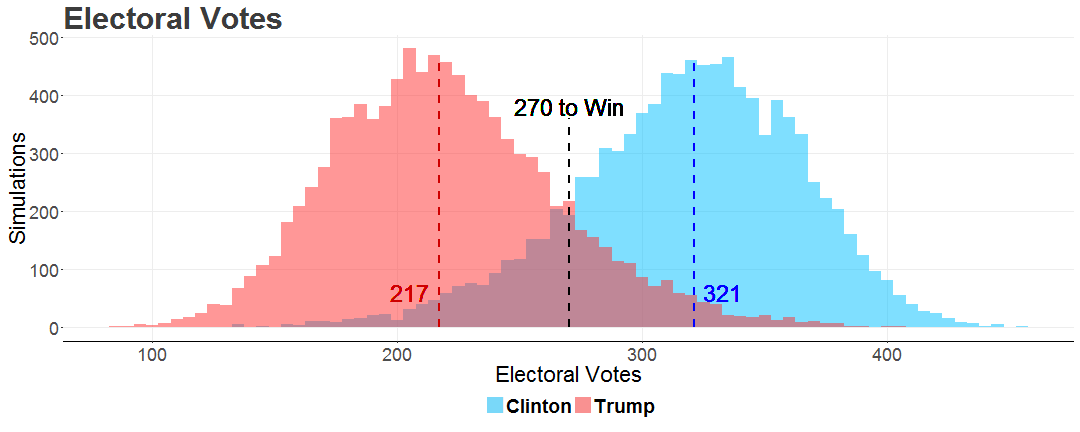
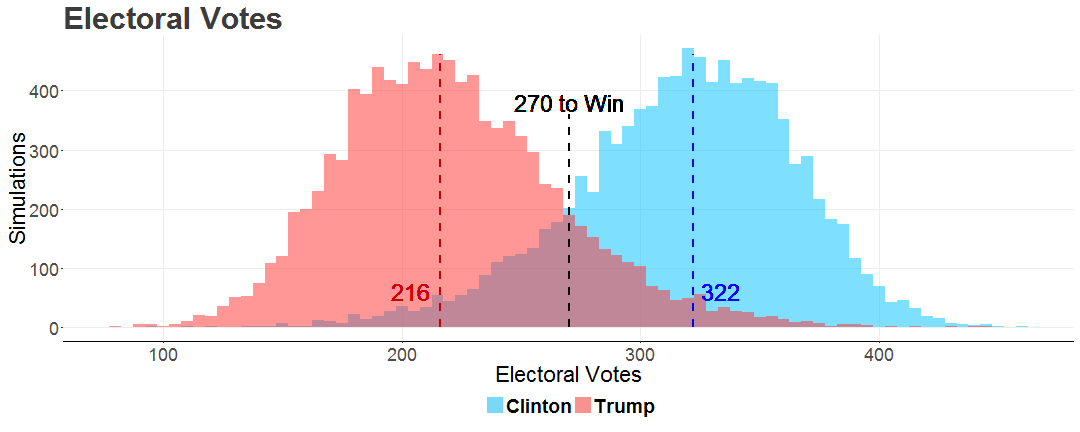
update

diff --git a/index.html b/index.html
@@ -154,7 +154,7 @@ th {
           <p></p>
           <p></p>
       <div class="container" style="text-align: center;">
-        <h1><div class="alert alert-info" role="alert">Hillary Clinton has an 85.7% chance of being president</div></h1>    
+        <h1><div class="alert alert-info" role="alert">Hillary Clinton has an 85.8% chance of being president</div></h1>    
       </div>
         </div>
           <div style="text-align:right;">
@@ -173,7 +173,7 @@ th {
 
       <div class="row">
         <div class="span12">
-          <p class="lead">Presidential elections are all about who can get to 270 electoral votes. After simulating the election ten-thousand times, the model predicts a <b>321-217</b> electoral win for <b>Hillary Clinton</b>.</p>
+          <p class="lead">Presidential elections are all about who can get to 270 electoral votes. After simulating the election ten-thousand times, the model predicts a <b>322-216</b> electoral win for <b>Hillary Clinton</b>.</p>
         </div>
       </div>
       
